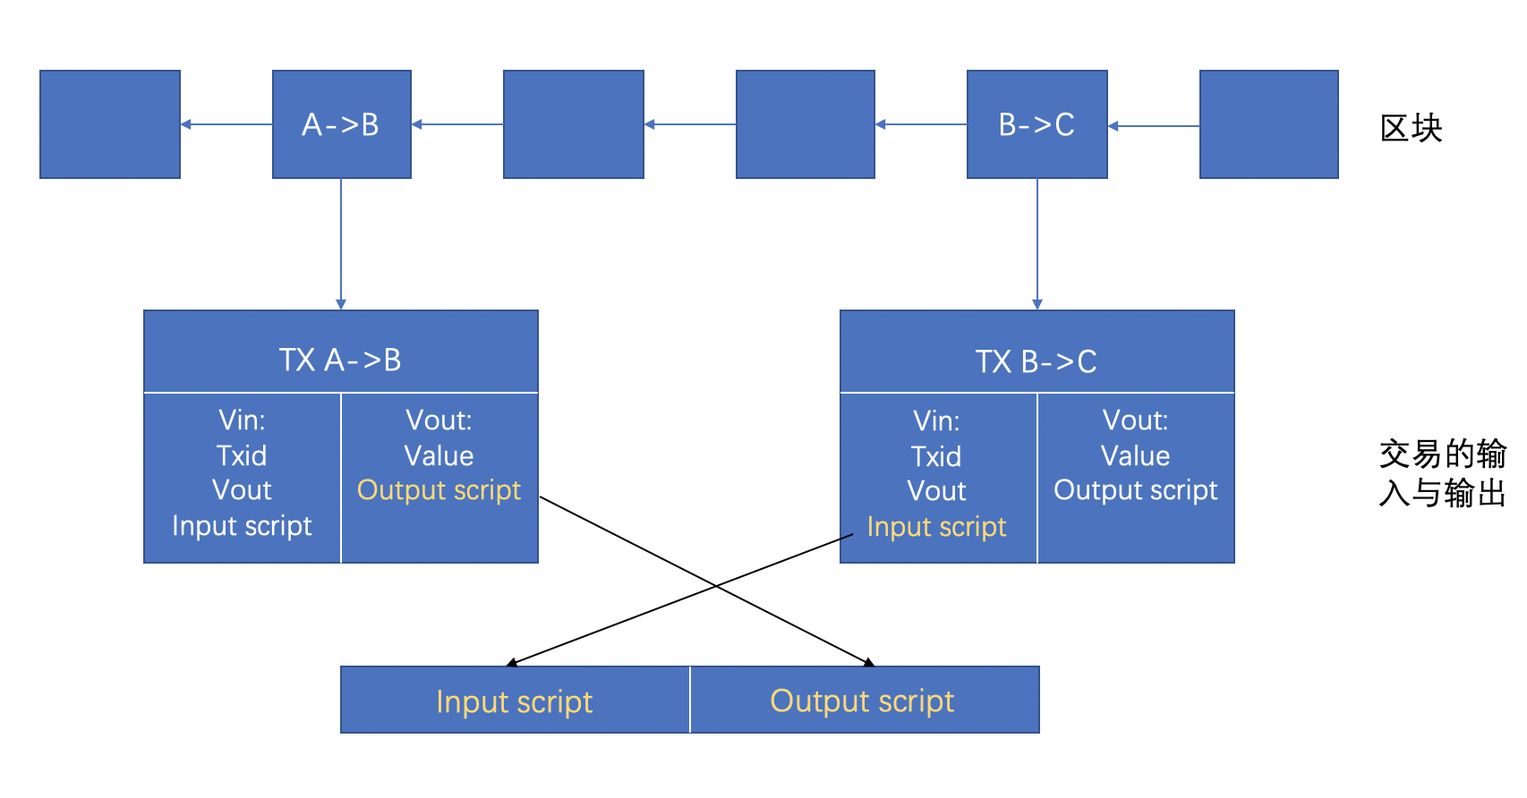
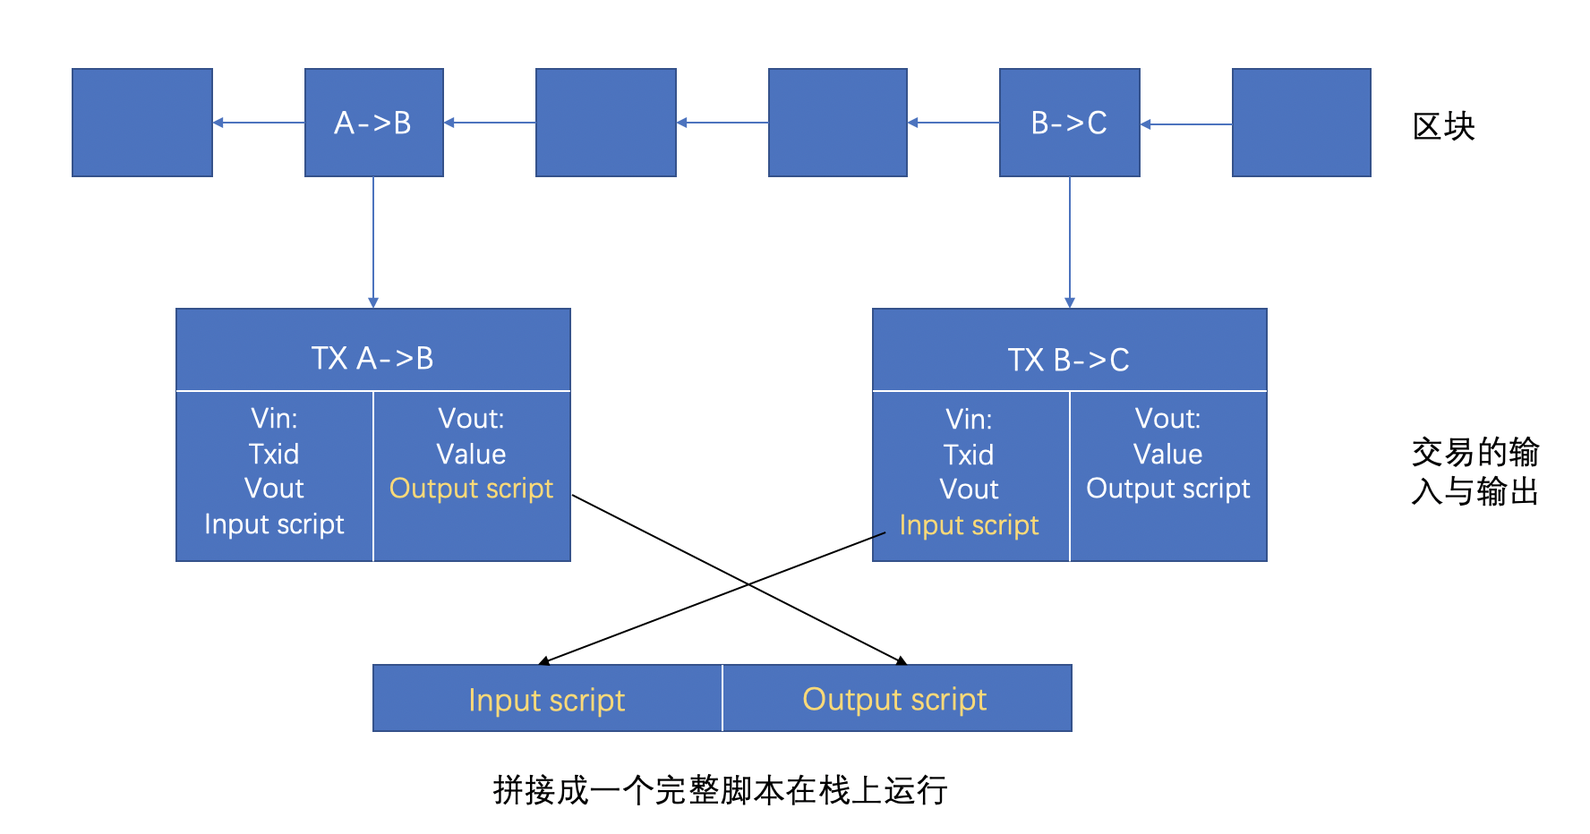
update

diff --git a/9_1.md b/9_1.md
@@ -1,0 +1,114 @@
+# 预言机（Oracles）
+区块链是一个确定性的、封闭的系统环境，本书到目前为止所有的操作都是基于区块链本身的数据，但是这样会割裂区块链本身与外部世界的交流，极大的限制区块链的应用场景。
+
+对于智能合约来说不允许不确定的事情或因素，不管何时何地运行都必须是一致的结果。但是一旦合约的执行需要触发条件，而这些条件是外信息时，就必须依赖预言机提供服务，通过预言机将现实世界的数据输入到区块链上，因为智能合约不支持对外请求。
+
+允许智能合约从区块链系统外部获取数据是一把双刃剑，在极大地拓展区块链应用场景，赋能区块链与外部世界交互的同时，它也引入了一定的信任难题。无许可链中的矿工没有把握能验证所有的外部输入，因此只能无差别地执行任何符合智能合约预置条件的操作。
+
+举个简单的例子： Alice 和 Bob 对比特币在伦敦时间 2019 年 1 月 3 日下午 2 时的价格打赌。他们用智能合约设立赌局，各自向合约中存入 1 个以太币，如果比特币价格高于 $4,200 ，那么 Alice 赢得 2 个以太币，否则 Bob 获得 2 个以太币。智能合约不懂比特币的价格，并且的赌局的结果一旦确定就无法逆转，因此我们一定要保证只向合约上报正确的比特币价格。这时候，我们就需要所谓的预言机（用来提供数据的组件）。
+
+预言机是对世界状态的声明进行签名的实体。举例来说，预言机可以报告 1 月 3 号 Coinbase 的 BTC/USD 价格，也可以报告欧冠联赛的冠军。最终信息是通过一个或多个预言机所采信的一个或多个可信信源消息进行聚合重整得到的。
+
+以上就是区块链为什么需要预言机，因为智能合约无法主动去获取链外的数据，只能被动接受数据。
+
+## 可信预言机
+区块链在构建时故意隔离了外部世界和需要额外信任的第三方。然而，大部分的事件还是在链外发生，因此我们要在不损害抗审查性的前提下桥接区块链与链外世界。事实上，dApp 的免信任性取决于链内链外世界纽带中最脆弱的那一条，因此仅仅一个可能会被污染的信源是远远不够的。
+
+接入多条信源能在概率上取得更高的安全性，不过相应会增加很多成本。具体运用场景所需的信源数量可能有多有少，实际应用中我们应当采取一种基于风险的设计思路来决定不同应用程序需要多少条信源。
+
+以北京的气温数据为例，如果仅仅用在手机 app 上的数据展示，即使数据出了问题也不会有严重后果，那使用一个预言机（例如 API）也就足够了；而如果预言机上报的温度决定了价值 1000 万人民币的保险合约的赔付结果，我们就有必要接入很多预言机，包括卫星数据、本地传感器数据等等。
+
+总的来说，需要根据涉及资金量的大小来平衡所建立预言机系统的成本，在实际应用中找到适合自己场景的预言机方案。
+
+### 奶酪模型
+要想保证第三方一直不作恶是很难的。在中心化世界里解决这个信任问题要使用多个保护层：合约、可信赖的公司、保险、法律等等。只要至少还有一个保护层没有失灵，就可以认为系统依然是诚实的。然而如果所有的保护层都被穿透了，那攻击就生效了（瑞士奶酪模型）。
+
+![](https://github.com/Ice-Storm/structure-and-interpretation-of-blockchain/blob/master/img/chapter_9/9_1.png?raw=true)
+
+所以此处我们再次强调单一（未经审计）的信源是无比脆弱的，它会影响所服务的系统的安全性。
+
+世上没有完美的系统，但我们可以将多重屏障的概念应用到去中心化的预言机系统中，从而尽尽可能完善最小化信任机制。
+
+A. 多重数据源
+减少数据失误的最简单办法是用预言机把多重数据源聚合起来。这样以来，只有两种可能收集到离谱的数据：一是大部分数据源都污染了，二是预言机本身被攻破了（变成了一个单点故障问题）。
+
+B. 多重预言机
+当增加预言机数量时，依概率大多数预言机不会是恶意的，因此只要系统中的多数仍保持诚实，那系统就是安全的。然而无论是有意操纵还是无意为之（信息源本身失效），此时都没有排除所有预言机都传递错误信息的可能。
+
+C. 利益共享
+去中心化网络可以制定特定的激励机制，以保证网络参与者的行事准则和网络的整体利益一致。当网络参与者按照规则活动时就能获得奖励，比如说矿工挖矿可以得到区块奖励，权益证明系统需要罚没条件来抵御女巫攻击和无利害关系攻击。
+
+让去中心化网络中的匿名参与者充当预言机十分危险，在去中心化系统中，一旦他们作恶来获取经济利益，也尚未有法律条文来追索那些不义之财。利用代币工程的设计，能强制去中心化网络中的节点质押一部分 保证金/存款，这些资产通常是系统中的原生货币。当节点好好工作时，会获取一定的酬劳，而如果节点作恶，就会按一定比例失去所质押的资产。上述机制保证了预言机系统有正向的激励机制来促进参与者生成准确数据。
+
+D. 可信执行环境（TEE）
+英特尔最近的 SGX （Software Guard eXtensions）和 ARM 的 TrustZone 都属于可信执行环境，由于二者较为相似，我们下面以英特尔的产品为例作介绍。
+
+简而言之，SGX 允许程序在 CPU 的围圈（enclave）中执行，为用户级别的代码赋予了硬件层面的保护。首先，围圈避免了应用程序（数据、代码和控制流）受到其它进程的破坏。其次，围圈保护了应用程序的机密性，即程序的数据、代码和执行状态在理论上对剩下部分的操作系统不透明，但程序依然可以读写围圈区域以外的内存。
+
+SGX 希求能在恶意操作系统上保护围圈中的程序，也因此甚至能保护应用程序不被节点上的系统管理员破坏。在围圈中运行预言机程序并分发数据能强有力地确保预言机程序的安全运行，因为可以从远端检测到系统是运行在合法的 SGX 系统之上。
+
+不过值得留意，在 SGX 发布后已经有两个漏洞 (March-2018 & July-2018) 相继被发现，并且目前还有研究在探索一些其他的漏洞。尽管第一个漏洞已经被修复，但这警示着我们只采用 TEE 仍然会造成单点故障。当智能合约的执行依赖于来自一个或多个预言机自动生成的输入时，必须设计多重保护层来避免单点故障。
+
+上述保护屏障单个抽离出来不能算是万无一失，但当它们联合起来共同作用时，能起到更强有力的保护效果。在下一节中，我们将介绍去中心化预言机系统中的主要攻击界面，并举例说明对应的防御措施。
+
+### 女巫攻击和其它去中心化系统的弱点
+造一个预言机系统并不难，难的是其中去信任成分的设计。
+
+关键风险：依赖智能合约裁决事务的各方之间是存在利益冲突的，而匿名的预言机没有诉讼风险。当运行多重预言机系统时，各个预言机必须达成共识，因为智能合约只接受一个输入。因此为了防御攻击，需要设计机制来保证预言机满足以下要求：
+
+- 无法互相辨认
+- 无法互相通信：一个有着相当大投票权力（譬如说 40% ）的预言机能广播自己的答案，而且不需要刻意说服其它节点自己的结果是主流答案。不过如果其它节点已经知道这个节点具备如此大的投票权力，那这个要求也相对没什么意义了。
+- 无法向其他节点证明自己是自己答案的所有人：和上一点类似，需要设计机制来隐藏各节点提交的答案，同时只有在所有人都提交答案之后才暴露其来源节点。
+
+以下的攻击策略或漏洞对去中心化的预言机网络是有效的。
+
+多数人攻击：存在这样的风险，即网络中大多数的节点都是由一个实体或是一个同盟来控制的。此时网络依然是由多数人控制，但已经被恶意操纵了。在去中心化的预言机网络项目中要尤其注意此类风险，需要根据节点的信誉和节点总数来决定节点的权力。
+
+### 致力于去中心化预言机的项目
+许多去中心化程度不同的项目都致力于解决上述问题，或是编写多种激励机制来减少对单一信任中介的依赖，或是引入成熟的攻击-抵御机制。
+
+所有的项目可以分为两类：通过网络提供预言机服务，以及网络自带预言机服务。
+
+1.预言机即服务
+#### ChainLink (已上线)
+
+Chainlink 的目标是构建一个完全去中心化的预言机网络，网络节点兼容以太坊、比特币和 Hyperledger，并支持模块化：系统的每个部分都支持升级。其主要的想法是为预言机打造一个可信的市场。有良好行为的预言机节点会受到激励，其表现和声誉会公之于众，反之有恶意行为的节点会受到惩罚。Chainlink 一开始是在链上对预言机的数据进行聚合，后续将通过一个有趣的设计转而在链下进行数据聚合。
+
+![](https://github.com/Ice-Storm/structure-and-interpretation-of-blockchain/blob/master/img/chapter_9/9_2.jpg?raw=true)
+
+任何系统的安全性都是由其最短板决定。去中心化保证了每时每刻的可用性，但存在失效节点传递错误数据的风险，为此 ChainLink 提供了 2 种解决方案。
+
+![](https://github.com/Ice-Storm/structure-and-interpretation-of-blockchain/blob/master/img/chapter_9/9_3.png?raw=true)
+
+初始解决方案：链上聚合
+合约在链上聚合所有节点的数据（可被公开审计），并使用 commit-reveal 的方式避免节点获取其它预言机的结果和互相抄袭。聚合后的最终结果将在足够多的结果在链上公布后被确定，但这会带来不小的计算成本：每个节点都会发起一次交易、每次交易都需要达成共识、还需要在以太坊部署一个或多个聚合合约。
+
+中期策略：链下聚合
+链下聚合能提高达成共识的经济性，但无法解决上文所说的吃空饷问题。
+
+链下聚合方案利用了 Schnorr 签名：每一个参与任务的预言机会收到一个针对此任务的 [公钥，私钥]组合。预言机使用私钥为（被请求的）数据结果（已加密）生成部分签名。单一的部分签名无法直接使用，但当有足够数量的的部分签名合在一起时（如下图所示），会形成一个集体 签名，该过程等价于一个链上交易对数据结果进行聚合。
+
+![](https://github.com/Ice-Storm/structure-and-interpretation-of-blockchain/blob/master/img/chapter_9/9_4.png?raw=true)
+
+这里的关键词是足够数量的部分签名，这也意味着该方案提供了（当部分节点无法响应时的）容错机制。这个方法的缺点在于，即便是诚实节点，如果消息传播花了太长时间，他们也无法获得奖励 —— 这使得节点对响应时间有依赖。这个方案也解决了抄袭问题，因为结果揭晓之时，已无法再提交新答案了。
+
+#### Witnet
+
+Witnet 是一个基于信誉的去中心化预言机网络：运行 Witnet 软件的节点是否正确地响应了数据请求决定了它是获得还是失去信誉值，而正确性是由共识算法分析节点的结果集后确定的。与共识不一致的的节点会失去信誉值（比如它们因节点下线或尝试做恶而产生了不一致），从而与正常节点区隔开来。当达成共识的过程超时时，只要最后节点结果和共识一致，它就不会受到惩罚。
+
+被称作目击者（witness）的预言机节点，基于它们的网络信誉，被随机分配任务并开挖区块，使其不易受“多数人攻击” 的影响。行为良好的节点可以迅速增加信誉值，并在网络中承担更多的责任；相反，失效的和恶意的节点将迅速失去其在网络中的信誉，进而无法再对网络作出贡献，最终变得无足轻重。
+
+因为 Witnet 中的信誉值如此重要，所以除了（在完成一个任务后）在好坏节点间有信誉值的转移变化外，系统还设计了一个在所有节点间进行固定的信誉值重分配的机制，重分配的间隔为一个区块一次（90 秒），从而避免：A. 由信誉值集中在最老的那些诚信节点而导致的中心化；B.尸位素餐（节点不再响应任务，只是获取挖矿收益）。
+
+每次区块生产中，会使用滞纳金函数实现信誉值的重分配：生效节点的信誉值每次以对数函数方式减少，减少的信誉值由所有行为良好节点共享。换句话说，所有节点的信誉值都会不断减少，而那些信誉值最多的节点则损失最大。因此，为了在 Witnet 中保持名列前茅，必须时刻保持良好的行为。
+
+Witnet 拥有自己的区块链网络，因此可以通过桥接节点提供去中心化的预言机服务。有了互操作性解决方案之后，可能（桥接节点）这种模式就不是那么有用了，但在互操作性方案开发出来之前，，但它提供了一个可扩展的方案，降低了链上操作的费用，并有助解决关键漏洞。
+
+## 结论
+去中心化网络不可篡改特性所带来的机遇和挑战可以概括为一个词：激励机制。通过良好设计的经济激励机制，使得去中心化网络能进行空前的全球协作，并保证理性的参与者的行为符合网络的利益。消除对可信第三方的依赖是一项挑战，任何事和任何人理论上都可能变坏，必须将风险降到可容忍的水平。的确，短期攻击的风险一直存在，但不应削弱网络维护者们的长期激励，他们可以从中获得巨大的利润。
+
+比特币矿工作为一个整体被视为可信的 “实体” 被雇佣和信任，以保证比特币账本的安全。曾经出现过矿工利用漏洞进行短期获利的事件，但他们更愿意进行理性地长期博弈，以保证自己的 ASIC 矿机投资和区块奖励不会大幅贬值。进一步说，以太坊因过度依赖像 Infura 或 Metamask 这样的服务（它们确实通过 Consensys 变得中心化）而饱受批评，但因为这些服务在以太坊中有巨大利益，因此能够保持不作恶。这些中间方案的风险在进一步的去中心化过程中是可容忍的。
+
+与外部世界进行交互，是智能合约顺理成章的下一步目标，这同样也需要部署正确设计的激励机制来避免攻击。这里主要的挑战是强大经济刺激导致的不端行为。随着网络的发展，这些激励将变成网络贡献者们巨大的收入来源。日积月累，网络中会有足够的预言机服务提供商并保有巨大利益，使其减少对单个（预言机）节点的依赖却同时能充分保证服务质量。
+
+萝卜加大棒的激励是强大的，我们期望看到所有这些项目的发展。ChainLink 通过使用 代币 和 信誉机制，已经能较好地获得可靠的预言机服务。当我们拥有可真正工作的预言机时，将会涌现众多的使用场景，其中最令我们兴奋的包括去中心化保险产品、金融产品、预测市场。

diff --git a/3_1.md b/3_1.md
@@ -30,7 +30,10 @@ UTXO模型：
 但是可以采取一种折中的手段，B向A花费50元，同时B可以向B’花费50元，而B‘就是B控制的另一个地址，这个过程就被称为找零。
 > B'被称为找零地址
 
+在找零的过程中还可能会发生这样一个问题，如果B忘记了填写找零地址，那么剩余的50元会去哪里呢？当然这些钱不会凭空消失 ，而是被矿工作为这笔交易的手续费收取了。简单来说输入的与输出的差额就会变成矿工的手续费，所以当花费UTXO的时候尤其需要注意。
+
 除了找零，还有凑整的的情况，就是单个地址的输入余额不足以支持花费，所以需要多个地址的余额凑到一起，凑整的过程与找零刚好相反，地址H的输入就是一个凑整的过程。
+
 在上面的交易链条中，每一笔花费都是可以追溯到源头的，显然这是不利于隐私保护的。如果地址没有发生改变，则可以监控这个地址的资金往来，甚至可以根据这个账户资金往来的特征推断出谁拥有这个地址。而这种单向链条可以让B不得不创建一个新地址B’，即能用来接收找零，也可以用来躲避这种追溯。
 每一笔交易就会促使一次UTXO地址余额的变换，所有UTXO的集合被称为 UTXO set ，目前有数以百万的UTXO。UTXO集的大小随着新UTXO的增加而增长。UTXO的变换最终会被打包进区块存储起来，整个UTXO模型最终还是被交易所驱动。
 
@@ -97,14 +100,16 @@ The transaction inputs in Alice’s transaction
 ### 比特币脚本
 每一笔交易除了铸币交易（coinbase）外，每一笔交易都拥有至少一个输入（TxIn）和至少一个输出（TxOut），和我们直觉上理解的交易的TxIn和TxOut应该是数字不太一样，在比特币中是以脚本的形式存在。
 
-比特币脚本是一种基于栈的脚本语言，不是图灵完备的。在比特币中没有账户的概念，谁拥有这笔交易的输出谁就可以花费这笔交易中的比特币，为了证明自己拥有这笔交易的输出就需要提供密钥接受验证，验证通过就可以花费这笔交易的输出。
-> 其基本的设计思路是，谁能提供一个签名和一个公钥，让这个脚本运行通过，谁就能花费交易中包含的BTC。
+比特币脚本是一种基于栈的脚本语言，在有限的范围内设计，可在多种硬件上执行，并且足够的简单。它只需要很少的处理，并且不能完成许多现代编程语言能够做的事情。足够的简单意味着很难从中挖掘出漏洞，对于数字货币来说，这是一个深思熟虑的安全特性。
+
+在比特币中没有账户的概念，谁拥有这笔交易的输出谁就可以花费这笔交易中的比特币，为了证明自己拥有这笔交易的输出就需要提供密钥接受验证，验证通过就可以花费这笔交易的输出。
+> 其基本的设计思路是，每个人都能从UTXO集合中看到每笔交易的输出，而谁能提供密钥让这个脚本运行通过，谁就能花费这个UTXO。
 
 执行的脚本由输入和输出拼接而成，如下图所示；
 
 ![script](https://github.com/Ice-Storm/structure-and-interpretation-of-blockchain/blob/master/img/chapter_3/3_1_1.png?raw=true)
 
-
+在最初版本的比特币客户端中，输入脚本和输出脚本按顺序拼接起来执行。出于安全因素考虑，在2010年发生了改变，因为存在一个漏洞，允许格式错误的解锁脚本将数据推送到堆栈并损坏锁定脚本。而在当前的方案中，脚本是单独执行的，在两次执行之间传输堆栈，
 
 比特币提供了三种输入输入脚本的形式，分别是`Pay to Publish Key`，`Pay to Publish Key Hash`和`Pay to Script Hash`。
 
@@ -188,13 +193,15 @@ output script
 包含了这样的output script的output被称为Provably Unspendable/Prunable Outputs。
 假如有一个交易的input指向这个output，不论input里的input script如何设计，执行到RETURN这个命令之后都会直接返回false，RETURN后面的其他指令也就不会执行了，所以这个output无法再被花出去，对应的UTXO也就可以被剪枝了，无需全节点继续保存。
 
-应用场景；
+##### 应用场景；
 - 永久存储一些信息，比如在某个时间证明存在某些事情，比如在2020年1月1日把知识产权的哈希放到链上，当以后产生纠纷的时候，你把知识产权公布出来，知识产权的哈希在特定时间已经上链，就可以证明你在特定时间已经知道了这个知识产权。
 - 代币转换，比如你把一些比特币转换成其他数字货币，你需要通过这种方式来证明你付出了一些代价。
 - 销毁比特币。
 
+#### 无状态验证
 比特币交易脚本语言是无状态的，在执行脚本之前没有状态，在执行脚本之后也不保存状态。因此，执行脚本所需的所有信息都包含在脚本中。脚本在任何系统上都能可预测地执行。如果你的系统验证了脚本，你可以确定比特币网络中的其他每个系统都会验证该脚本，这意味着有效的交易对每个人都有效，每个人都知道这一点。结果的可预测性是比特币系统的一个重要好处。
 
+#### 图灵不完备
 比特币交易脚本语言包含许多操作符，但是故意在一个重要方面进行了限制 - 除了条件控制外，没有循环或复杂的流程控制功能。这确保语言不是 图灵完备 Turing Complete 的，这意味着脚本具有有限的复杂性和可预测的执行时间。脚本不是通用语言。这些限制确保了该语言不能用于创建无限循环或其他形式的“逻辑炸弹”，这种“逻辑炸弹”可能嵌入交易中，导致对比特币网络的拒绝服务攻击。请记住，每笔交易都由比特币网络上的每个完整节点验证。有限制的语言会阻止交易验证机制被当作漏洞
 
 可以说比特币已经具有了下一代区块链平台以太坊中智能合约的雏形。

diff --git a/10_1.md b/10_1.md
@@ -1,0 +1,22 @@
+## 以太坊标准
+
+### 以太坊改进提案（EIPs）
+
+https://eips.ethereum.org/
+
+来自EIP-1：
+
+EIP代表以太坊改进提案。EIP是一个设计文档，为以太坊社区提供信息，或描述以太坊或其过程或环境的新功能。EIP应提供该功能的简明技术规范和该功能的基本原理。EIP作者负责在社区内建立共识并记录不同意见。
+
+![](https://github.com/Ice-Storm/structure-and-interpretation-of-blockchain/blob/master/img/chapter_10/10_1.jpg?raw=true)
+
+### 以太坊征求意见（ERCs）
+Request for Comments（RFC）是一种用于为互联网引入技术和组织指南的方法，因为它们是由https://www.ietf.org[Internet Engineering Task Force]提出的。ERCS包括为以太坊网络设置标准的类似指南。以下部分提供了由以太坊开发人员社区开发和接受的最新列表。
+
+ERCs的增加是通过https://github.com/ethereum/EIPs[EIPs]，以太坊改进协议来完成的，这是对比特币自己的BIP的致敬。EIP由开发人员编写并提交给同行评审，评估其有用性，并且能够增加现有ERC的实用性。如果他们被接受，他们最终将成为ERC标准的一部分。
+
+| EIP/ERC | 标题  |  作者   | 层次  | 状态 |
+| ------  | ----  |  ----  | ---- | ---- |
+| EIP-1  | EIP Purpose and Guidelines | Martin Becze, Hudson Jameson | Meta | Final|
+| EIP-20  | ERC-20 Token Standard. Describes standard functions a token contract may implement to allow DApps and Wallets to handle tokens across multiple interfaces/DApps. Methods include: totalSupply(), balanceOf(address), transfer, transferFrom, approve, allowance. Events include: Transfer (triggered when tokens are transferred), Approval (triggered when approve is called). | Fabian Vogelsteller, Vitalik Buterin | ERC | Final |
+| EIP-721 | ERC-721 Non-Fungible Token (NFT) Standard. It is a standard API that would allow smart contracts to operate as unique tradable non-fungible tokens (NFT) that may be tracked in standardised wallets and traded on exchanges as assets of value, similar to ERC-20. CryptoKitties was the first popularly-adopted implementation of a digital NFT in the Ethereum ecosystem. | William Entriken, Dieter Shirley, Jacob Evans, Nastassia Sachs | Standard | Draft |
